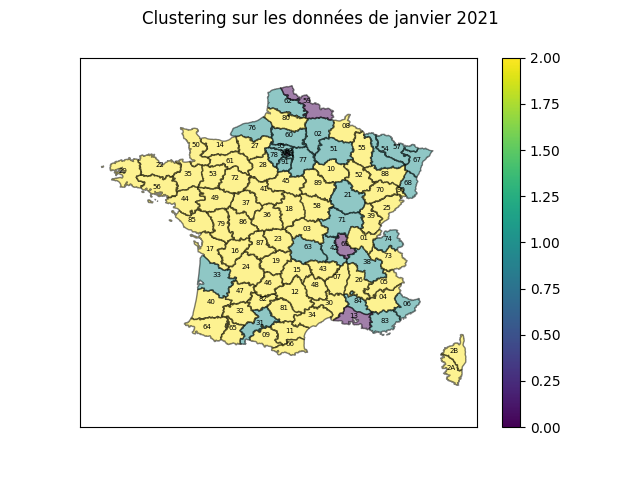
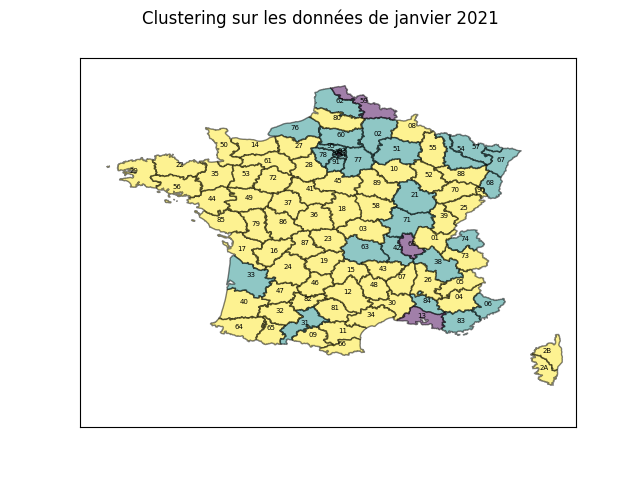
Add option to hide scale on exportmap.py

Changed region(s): [[0.1562, 0.125, 0.9062, 0.9062], [0.8125, 0.0938, 0.875, 0.1562]]

diff --git a/IO/exportmap.py b/IO/exportmap.py
@@ -7,7 +7,8 @@ from Pipeline import Pipelineable
 
 
 class ExportMap(Pipelineable):
-    def __init__(self, path, type_geo, var_geocode, var_tomap, title=None, color_scale='viridis', display_labels=True):
+    def __init__(self, path, type_geo, var_geocode, var_tomap, title=None, color_scale='viridis',
+                 display_labels=True, display_scale=True):
         self.__path = path
         if type_geo == "dep" or type_geo == "departement":
             self.__json_path = "data/departements.geojson"
@@ -20,6 +21,7 @@ class ExportMap(Pipelineable):
         self.__title = title
         self.__color_scale = color_scale
         self.__display_labels = display_labels
+        self.__display_scale = display_scale
 
     def apply(self, df):
         data = dict(zip(df[self.__var_geocode], df[self.__var_tomap]))
@@ -30,7 +32,8 @@ class ExportMap(Pipelineable):
         cols = plt.get_cmap(self.__color_scale)
         norm = clrs.Normalize()
         norm.autoscale(list(data.values()))
-        fig.colorbar(cm.ScalarMappable(norm=norm, cmap=cols), ax=ax)
+        if self.__display_scale:
+            fig.colorbar(cm.ScalarMappable(norm=norm, cmap=cols), ax=ax)
         with open(self.__json_path) as json_file:
             geo_data = geojson.load(json_file)
         for geo in geo_data['features']:

diff --git a/main.py b/main.py
@@ -49,7 +49,7 @@ if __name__ == '__main__':
     clustering = KMeans(3, 'incid_hosp_MA7_Average', 'incid_rea_MA7_Average',
                         'incid_dc_MA7_Average', 'incid_rad_MA7_Average', random_seed=20)
     map_cluster = ExportMap('answer_q4.png', 'departement', 'dep', 'Partition',
-                            title="Clustering sur les données de janvier 2021")
+                            title="Clustering sur les données de janvier 2021", display_scale=False)
     answer_q4 = Pipeline(num_hospit, num_rea, num_dc, num_rad, filtrer_dates, groupe_dep, moy_mobiles,
                          moy_ma, clustering, map_cluster)
     answer_q4.apply(hospit_nouveaux)  # Réponse attendue : voir carte 'docs/answer_q4.png' (avec seed=20)

diff --git a/setup.py b/setup.py
@@ -10,6 +10,7 @@ setup(
     version='0.1',
     author='GENIN Alanna, LAGALLE Maxence, RAMBAUT Coline',
     author_email='alanna.genin@eleve.ensai.fr, maxence.lagalle@eleve.ensai.fr, coline.rambaut@eleve.ensai.fr',
+    description='Pure Python 3 data wrangling tools with support for pipelines',
     long_description=long_description,
     long_description_content_type='text/markdown',
     classifiers=[
